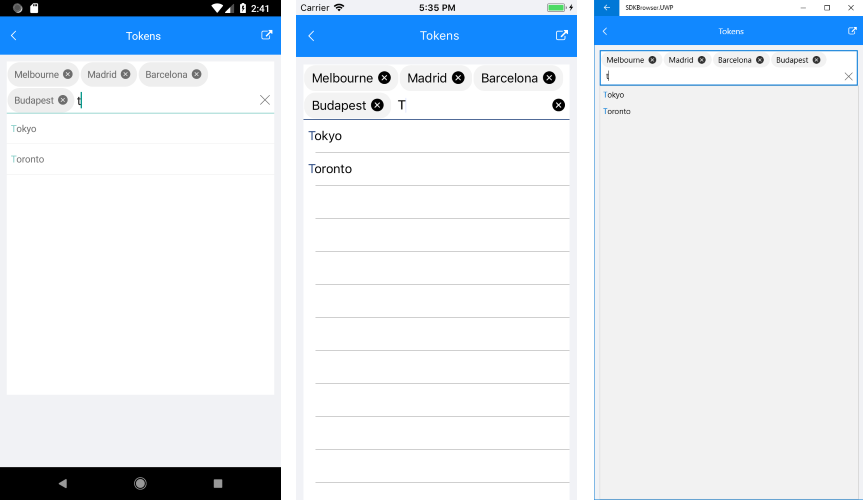
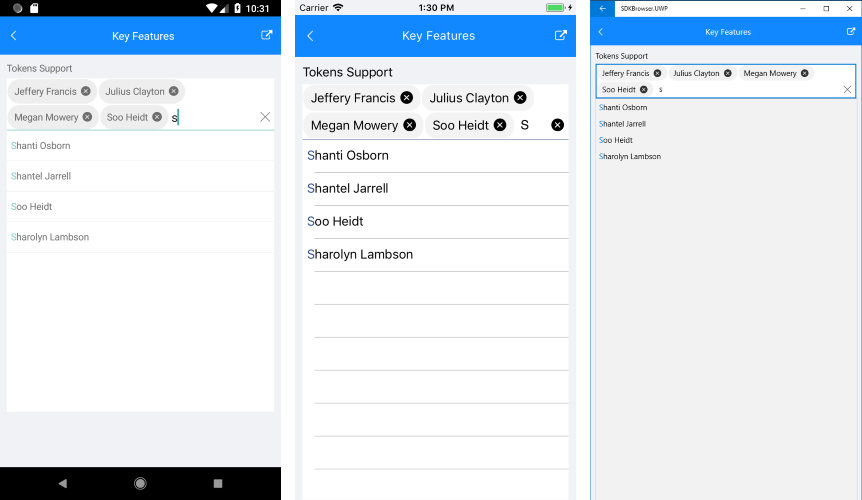
Modified overview and key features articles of the ACV control

diff --git a/controls/autocompleteview/autocompleteview-overview.md b/controls/autocompleteview/autocompleteview-overview.md
@@ -16,13 +16,14 @@ slug: autocompleteview-overview
 
 ## Key features
 
-* **Tokens Support**: With RadAutoCompleteView you could enable users to search for and select several items in one control. These items appear as tokens that can easily be deselected using their close button. For more details on this check [here]({% slug autocomplete-key-features%}#tokens-support).
+* **Tokens Support**: With RadAutoCompleteView you could enable users to search for and select several items in one control. These items appear as tokens that can easily be deselected using their close button. For more details on this check [here]({% slug autocompleteview-key-features%}#tokens-support).
 * **Filtering Options**:  You could define the filtering behavior to display all the matches that either “StartsWith” or “Contains” the typed symbols. Read [here]({% slug autocomplete-key-features%}#filtering-options) for more details on this.
-* **Watermark**: Used to give guidance to the end user on what should be entered in the text input. Check [here]({% slug autocomplete-key-features%}#watermark) for more info.
-* **NoResults Message**: NoResults message appears in the popup used for the list of suggestions whenever the control cannot find any matching items. Read more about this [here]({% slug autocomplete-key-features%}#noresults-message).
-* **Customizable Items**: Whenever the default template does not fit a particular scenario you could use the SuggestionItemTemplate property to define a custom template. Read [here]({%slug autocomplete-suggestion-item-template %}) for detailed instructions on how you could apply it.
-* **Remote Search**: Allows you to easily take the user input, trigger custom searching algorithm and assign the results to the ItemSource of the AutoCompleteView.
-* **Show/Hide Suggestions**: AutoCompleteView provides the ability to show/hide all suggestions immediately when you focused on the input field.
+* **Watermark**: Used to give guidance to the end user on what should be entered in the text input. Check [here]({% slug autocompleteview-key-features%}#watermark) for more info.
+* **NoResults Message**: NoResults message appears in the popup used for the list of suggestions whenever the control cannot find any matching items. Read more about this [here]({% slug autocompleteview-key-features%}#noresults-message).
+* **Customizable Items**: Whenever the default template does not fit a particular scenario you could use the SuggestionItemTemplate property to define a custom template. Read [here]({%slug autocompleteview-suggestion-item-template %}) for detailed instructions on how you could apply it.
+* **Remote Search**: Allows you to easily take the user input, trigger custom searching algorithm and assign the results to the ItemSource of the AutoCompleteView. Read more about this [here]({% slug autocompleteview-remote-search%}).
+* **Show/Hide Suggestions**: AutoCompleteView provides the ability to show/hide all suggestions immediately when you focused on the input field. Read more about AutoCompleteView methods [here]({% slug autocompleteview-methods%}).
+* **Highlight Customization**: The ability to highlight the text inside the custom template. Check [here]({% slug autocompleteview-styling-options%}#highlight-customization) for more info.
 
 ## See Also
 

diff --git a/controls/autocompleteview/autocompleteview-key-features.md b/controls/autocompleteview/autocompleteview-key-features.md
@@ -13,9 +13,13 @@ The purpose of this help article is to show you the key features of the **RadAut
 
 With AutoCompleteView you could enable users to search for and select several items. These items appear as tokens that can easily be deselected using their close button. 
 
-**DisplayMode** *(SuggestionsDisplayMode)* property determines whether a single or multiple selection is enabled.  The default DisplayMode is “Plain”, for multiple selection you would need to set it to “Tokens”.
+**DisplayMode** *(SuggestionsDisplayMode)* property determines whether a single or multiple selection is enabled. The default DisplayMode is “Plain”, for multiple selection you would need to set it to “Tokens”.
 
 <snippet id='autocompleteview-features-tokenssupport'/>
+
+Here is the result when the DisplayMode is set to Tokens:
+
+![AutoCompleteView Tokens](images/autocompleteview-features-tokens.png "AutoCompleteView Tokens")
 
 ## Filtering Options
 
@@ -64,6 +68,8 @@ By default the search is triggered as soon as the user types into the input fiel
 ## FilteredItems collection
 
 **FilteredItems** bindable property allows you to access the collection containing the search results of the AutoCompleteView. The property can be used in scenarios where the search results are visualized at a different place or inside another container.
+
+>important A sample Key Features example can be found in the AutoCompleteView/Features folder of the [SDK Samples Browser application]({%slug developer-focused-examples%}).
 
 ## See Also
 
